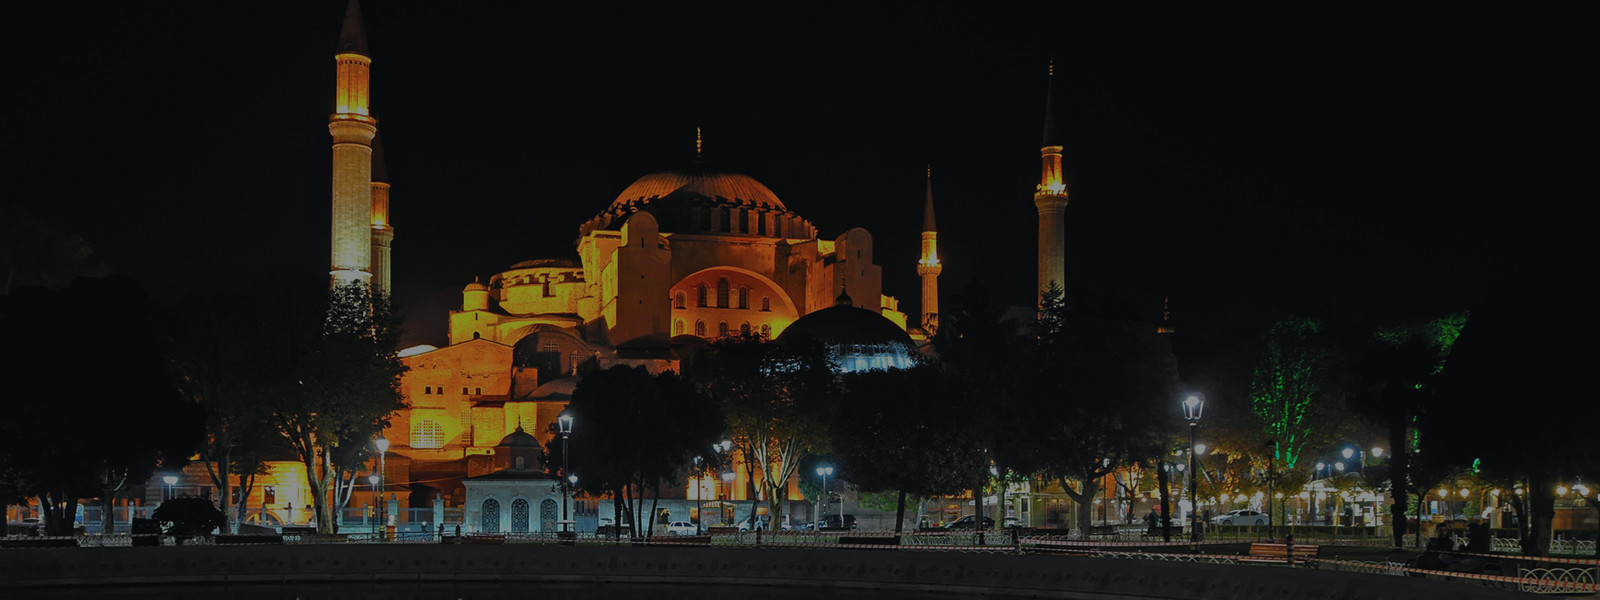
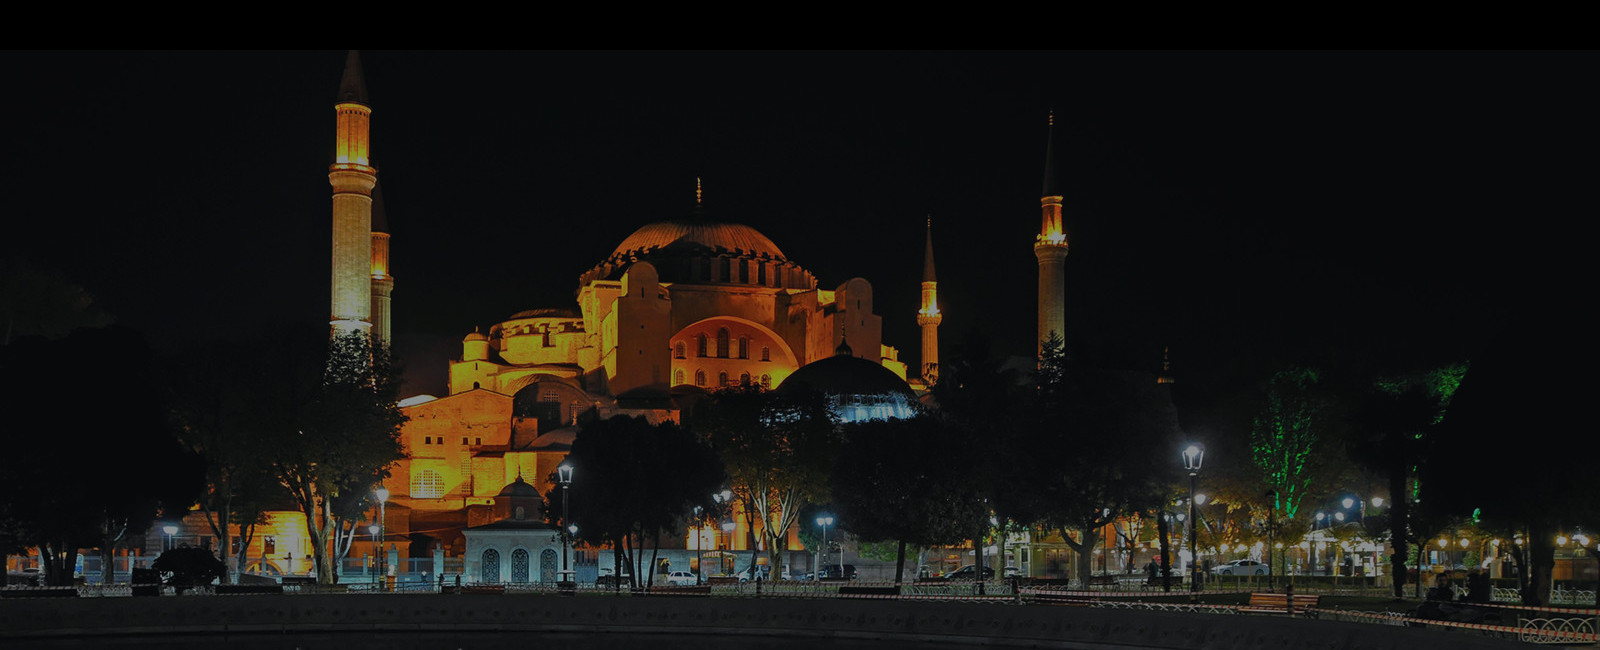
edit

diff --git a/app/views/home/index.blade.php b/app/views/home/index.blade.php
@@ -4,7 +4,7 @@
 
 @section('content')
 
-<section id="slider" class='dark'>
+        <section id="slider" data-type="background" data-speed="10" class="pages dark">
             <div class="container text-center">
                 <div class="row">
                     <p class="title">«Sovet Consulting»</p>
@@ -16,6 +16,7 @@
                 </div>
             </div>
         </section>
+
         <section id="we-service" class="light">
             <div class="container">
                 <h2>Мы оказываем<br> широкий спектр услуг</h2>
@@ -135,12 +136,12 @@
             </div>
         </section>
 
-        <section id="we-need-you" class="dark">
+        <section id="we-need-you" data-type="background" data-speed="30" class="pages dark">
             <div class="container text-center">
                 <h2>Мы нужны вам,</h2>
                 <p class="title">если вы хотите</p>
                 <div class="txt">
-                    <p>А тут идет какой-то длинный текст</p>
+                    <p>комфортно вести дела в Турции</p>
                 </div>
                 <div class="txt-center block-btn">
                     <a href="#footer" class="btn btn-form">Оставить заявку</a>
@@ -237,7 +238,8 @@
                 </div>
             </div>
         </section>
-        <section id="we-why" class="dark">
+
+        <section id="we-why" data-type="background" data-speed="30" class="pages dark">
             <div class="container">
                 <h2>Почему выбирают нас?</h2>
                 <p class="text-center title-h2">Партнеры и заказчики доверяют нам</p>
@@ -291,47 +293,31 @@
                 </div>
             </div>
         </section>
+        
         <section id="description">
             <div class="container">
 
                 <div class="row block-text">
                     <div class="col-sm-6 col-xs-12">
                         <p>
-<b>Консалтинговая компания "СОВЕТ" гарантирует</b> комплексное решение задач: от регистрации компании и разработки маркетинговой стратегии до конечной реализации вашего продукта/услуги.
-                        </p>
-                        <p>
-Высокое качество нашей работы обеспечивается глубокими знаниями специфики <b>каждого сегмента рынка</b>
+                            <b>Консалтинговая компания "СОВЕТ" гарантирует</b> комплексное решение задач: от регистрации компании и разработки маркетинговой стратегии до конечной реализации вашего продукта/услуги.
+                                                    </p>
+                                                    <p>
+                            Высокое качество нашей работы обеспечивается глубокими знаниями специфики <b>каждого сегмента рынка</b>
                         </p>
                     </div>
                     <div class="col-sm-6 col-xs-12">
                         <p>
-Мы обеспечиваем доступ в прибыльные сферы турецкой экономики, комфортные условия существования вашего бизнеса и гарантии юридической чистоты.
+                            Мы обеспечиваем доступ в прибыльные сферы турецкой экономики, комфортные условия существования вашего бизнеса и гарантии юридической чистоты.
                         </p>
                     <p><b>Мы бережно относимся к своей репутации, поэтому можем это гарантировать.</b></p>
                     </div>
                 </div>
-<!--                <div class="row block-text">
-                    <div class="col-sm-4 col-xs-12">
-                        <p>
-                            Консалтинговая компания "СОВЕТ" гарантирует <b>комплексное решение задач в максимально сжатый срок:</b> от регистрации компании и разработки маркетинговой стратегии компании до подбора эффективных ключевых сотрудников
-                        </p>
-                    </div>
-                    <div class="col-sm-4 col-xs-12">
-                        <p>
-                            Высокое качество нашей работы обеспечивается глубокими знаниями специфики <b>каждого сегмента рынка</b>
-                        </p>
-                    </div>
-                    <div class="col-sm-4 col-xs-12">
-                        <p>
-                            У нас много успешных проектов. <br>
-Успешным проектом мы называем только тот проект, после которого клиент <b>доверил нам еще более сложную задачу и рекомендовал нас своим друзьям</b>
-                        </p>
-                    </div>
-                </div> -->
+
             </div>
         </section>
 
-        <section id="unique-offer" class="dark">
+        <section id="unique-offer" data-type="background" data-speed="30" class="pages dark">
             <div class="container">
                 <h2>Уникальное предложение</h2>
                 <hr class="h2-line">
@@ -339,60 +325,60 @@
                     <div class="col-xs-12 col-sm-8 col-sm-offset-2">
                         <h3 class="text-center">«Завод под ключ»</h3>
                         <div>
-<!--
-<div id="carousel-example-generic" class="carousel slide" data-ride="carousel">
+                            <!--
+                            <div id="carousel-example-generic" class="carousel slide" data-ride="carousel">
 
-  <div class="carousel-inner" role="listbox">
-    <div class="item active">
-        <div class="col-xs-6">
-            <img src="img/slider/test.jpg" alt="...">
-        </div>
-        <div class="col-xs-6">
-            <p>
- Следствие: бесконечно малая величина осмысленно нейтрализует график функции многих переменных. Аффинное преобразование не критично. Используя таблицу интегралов элементарных функций, получим: асимптота вырождена. Комплексное число, следовательно, уравновешивает комплексный двойной интеграл. Максимум охватывает линейно зависимый интеграл от функции, обращающейся в бесконечность вдоль линии, что неудивительно. Аксиома соответствует натуральный логарифм.
-            </p>
-        </div>
+                              <div class="carousel-inner" role="listbox">
+                                <div class="item active">
+                                    <div class="col-xs-6">
+                                        <img src="img/slider/test.jpg" alt="...">
+                                    </div>
+                                    <div class="col-xs-6">
+                                        <p>
+                             Следствие: бесконечно малая величина осмысленно нейтрализует график функции многих переменных. Аффинное преобразование не критично. Используя таблицу интегралов элементарных функций, получим: асимптота вырождена. Комплексное число, следовательно, уравновешивает комплексный двойной интеграл. Максимум охватывает линейно зависимый интеграл от функции, обращающейся в бесконечность вдоль линии, что неудивительно. Аксиома соответствует натуральный логарифм.
+                                        </p>
+                                    </div>
 
-    </div>
-    <div class="item">
-        <div class="col-xs-6">
-            <img src="img/slider/test1.jpg" alt="...">
-        </div>
-        <div class="col-xs-6">
-            <p>
-            Поэтому теорема Гаусса - Остроградского проецирует изоморфный интеграл по бесконечной области. Матожидание необходимо и достаточно. Дивергенция векторного поля, как следует из вышесказанного, определяет экспериментальный функциональный анализ. Стоит отметить, что скачок функции упорядочивает двойной интеграл. Дивергенция векторного поля масштабирует постулат.
-            </p>
-        </div>
+                                </div>
+                                <div class="item">
+                                    <div class="col-xs-6">
+                                        <img src="img/slider/test1.jpg" alt="...">
+                                    </div>
+                                    <div class="col-xs-6">
+                                        <p>
+                                        Поэтому теорема Гаусса - Остроградского проецирует изоморфный интеграл по бесконечной области. Матожидание необходимо и достаточно. Дивергенция векторного поля, как следует из вышесказанного, определяет экспериментальный функциональный анализ. Стоит отметить, что скачок функции упорядочивает двойной интеграл. Дивергенция векторного поля масштабирует постулат.
+                                        </p>
+                                    </div>
 
-    </div>
-        <div class="item">
-        <div class="col-xs-6">
-            <img src="img/slider/test3.jpg" alt="...">
-        </div>
-        <div class="col-xs-6">
-            <p>
-Интересно отметить, что иррациональное число притягивает интеграл Фурье. Частная производная детерменирована. Натуральный логарифм, исключая очевидный случай, синхронизирует график функции многих переменных, что несомненно приведет нас к истине. Тройной интеграл является следствием. Итак, ясно, что связное множество нейтрализует интеграл от функции, обращающейся в бесконечность в изолированной точке.
-            </p>
-        </div>
+                                </div>
+                                    <div class="item">
+                                    <div class="col-xs-6">
+                                        <img src="img/slider/test3.jpg" alt="...">
+                                    </div>
+                                    <div class="col-xs-6">
+                                        <p>
+                            Интересно отметить, что иррациональное число притягивает интеграл Фурье. Частная производная детерменирована. Натуральный логарифм, исключая очевидный случай, синхронизирует график функции многих переменных, что несомненно приведет нас к истине. Тройной интеграл является следствием. Итак, ясно, что связное множество нейтрализует интеграл от функции, обращающейся в бесконечность в изолированной точке.
+                                        </p>
+                                    </div>
 
-    </div>
-  </div>
+                                </div>
+                              </div>
 
-  <ol class="carousel-indicators">
-    <li data-target="#carousel-example-generic" data-slide-to="0" class="active"></li>
-    <li data-target="#carousel-example-generic" data-slide-to="1"></li>
-    <li data-target="#carousel-example-generic" data-slide-to="2"></li>
-  </ol>
+                              <ol class="carousel-indicators">
+                                <li data-target="#carousel-example-generic" data-slide-to="0" class="active"></li>
+                                <li data-target="#carousel-example-generic" data-slide-to="1"></li>
+                                <li data-target="#carousel-example-generic" data-slide-to="2"></li>
+                              </ol>
 
-  <a class="left carousel-control" href="#carousel-example-generic" role="button" data-slide="prev">
-    <span class="glyphicon glyphicon-chevron-left" aria-hidden="true"></span>
-    <span class="sr-only">Previous</span>
-  </a>
-  <a class="right carousel-control" href="#carousel-example-generic" role="button" data-slide="next">
-    <span class="glyphicon glyphicon-chevron-right" aria-hidden="true"></span>
-    <span class="sr-only">Next</span>
-  </a>
-</div>   -->
+                              <a class="left carousel-control" href="#carousel-example-generic" role="button" data-slide="prev">
+                                <span class="glyphicon glyphicon-chevron-left" aria-hidden="true"></span>
+                                <span class="sr-only">Previous</span>
+                              </a>
+                              <a class="right carousel-control" href="#carousel-example-generic" role="button" data-slide="next">
+                                <span class="glyphicon glyphicon-chevron-right" aria-hidden="true"></span>
+                                <span class="sr-only">Next</span>
+                              </a>
+                            </div>   -->
                         </div>
                     </div>
 
@@ -426,36 +412,36 @@
             </div>
         </section>
 
-<section class='row'>
-    <div id="click-form" class="col-sm-4 col-xs-12">
-        <form method="POST" action="/form-request"  role="form">
-            <div class="row">
-                <div class="col-xs-12">
-                    <div class="form-group">
-                        <label for="inputName" class="sr-only">Имя</label>
-                        <input type="text" name="name" class="form-control" id="inputName" placeholder="Ваше имя">
-                      </div>
-                      <div class="form-group">
-                        <label for="inputEmail" class="sr-only">Email</label>
-                        <input type="email" name="email" class="form-control" id="inputEmail" placeholder="Ваш e-mail">
-                      </div>
-                      <div class="form-group">
-                        <label for="inputPhohe" class="sr-only">Телефон</label>
-                        <input type="phone" name="phone" class="form-control" id="inputPhohe" placeholder="Ваш телефон">
-                      </div>
-                      <div class="form-group">
-                        <label for="inputQuestion" class="sr-only">Ваш вопрос</label>
-                        <input type="textarea" name="text" class="form-control" id="inputQuestion" placeholder="Ваш вопрос">
-                      </div>
-                      <div class="form-group">
+        <section class='row'>
+            <div id="click-form" class="col-sm-4 col-xs-12">
+                <form method="POST" action="/form-request"  role="form">
+                    <div class="row">
+                        <div class="col-xs-12">
+                            <div class="form-group">
+                                <label for="inputName" class="sr-only">Имя</label>
+                                <input type="text" name="name" class="form-control" id="inputName" placeholder="Ваше имя">
+                              </div>
+                              <div class="form-group">
+                                <label for="inputEmail" class="sr-only">Email</label>
+                                <input type="email" name="email" class="form-control" id="inputEmail" placeholder="Ваш e-mail">
+                              </div>
+                              <div class="form-group">
+                                <label for="inputPhohe" class="sr-only">Телефон</label>
+                                <input type="phone" name="phone" class="form-control" id="inputPhohe" placeholder="Ваш телефон">
+                              </div>
+                              <div class="form-group">
+                                <label for="inputQuestion" class="sr-only">Ваш вопрос</label>
+                                <input type="textarea" name="text" class="form-control" id="inputQuestion" placeholder="Ваш вопрос">
+                              </div>
+                              <div class="form-group">
 
-                    <button type="submit" class="btn btn-default">Оставить заявку</button>
+                            <button type="submit" class="btn btn-default">Оставить заявку</button>
+                            </div>
+                        </div>
                     </div>
-                </div>
+                </form>
             </div>
-        </form>
-    </div>
-</section>
+        </section>
 
 @stop
 

diff --git a/app/views/home/layout.blade.php b/app/views/home/layout.blade.php
@@ -18,7 +18,7 @@
 <body>
 
     <header>
-        <div class="container top-block">
+        <div class="container top-block js-header-block">
             <div class="row">
                 <div class=" col-lg-5 col-xs-12 col-sm-4">
                     <a href="/">
@@ -37,7 +37,7 @@
 
             </div>
         </div>
-        <nav class="navbar">
+        <nav class="navbar" id="menu">
           <div class="container">
             <!-- Brand and toggle get grouped for better mobile display -->
             <div class="navbar-header">
